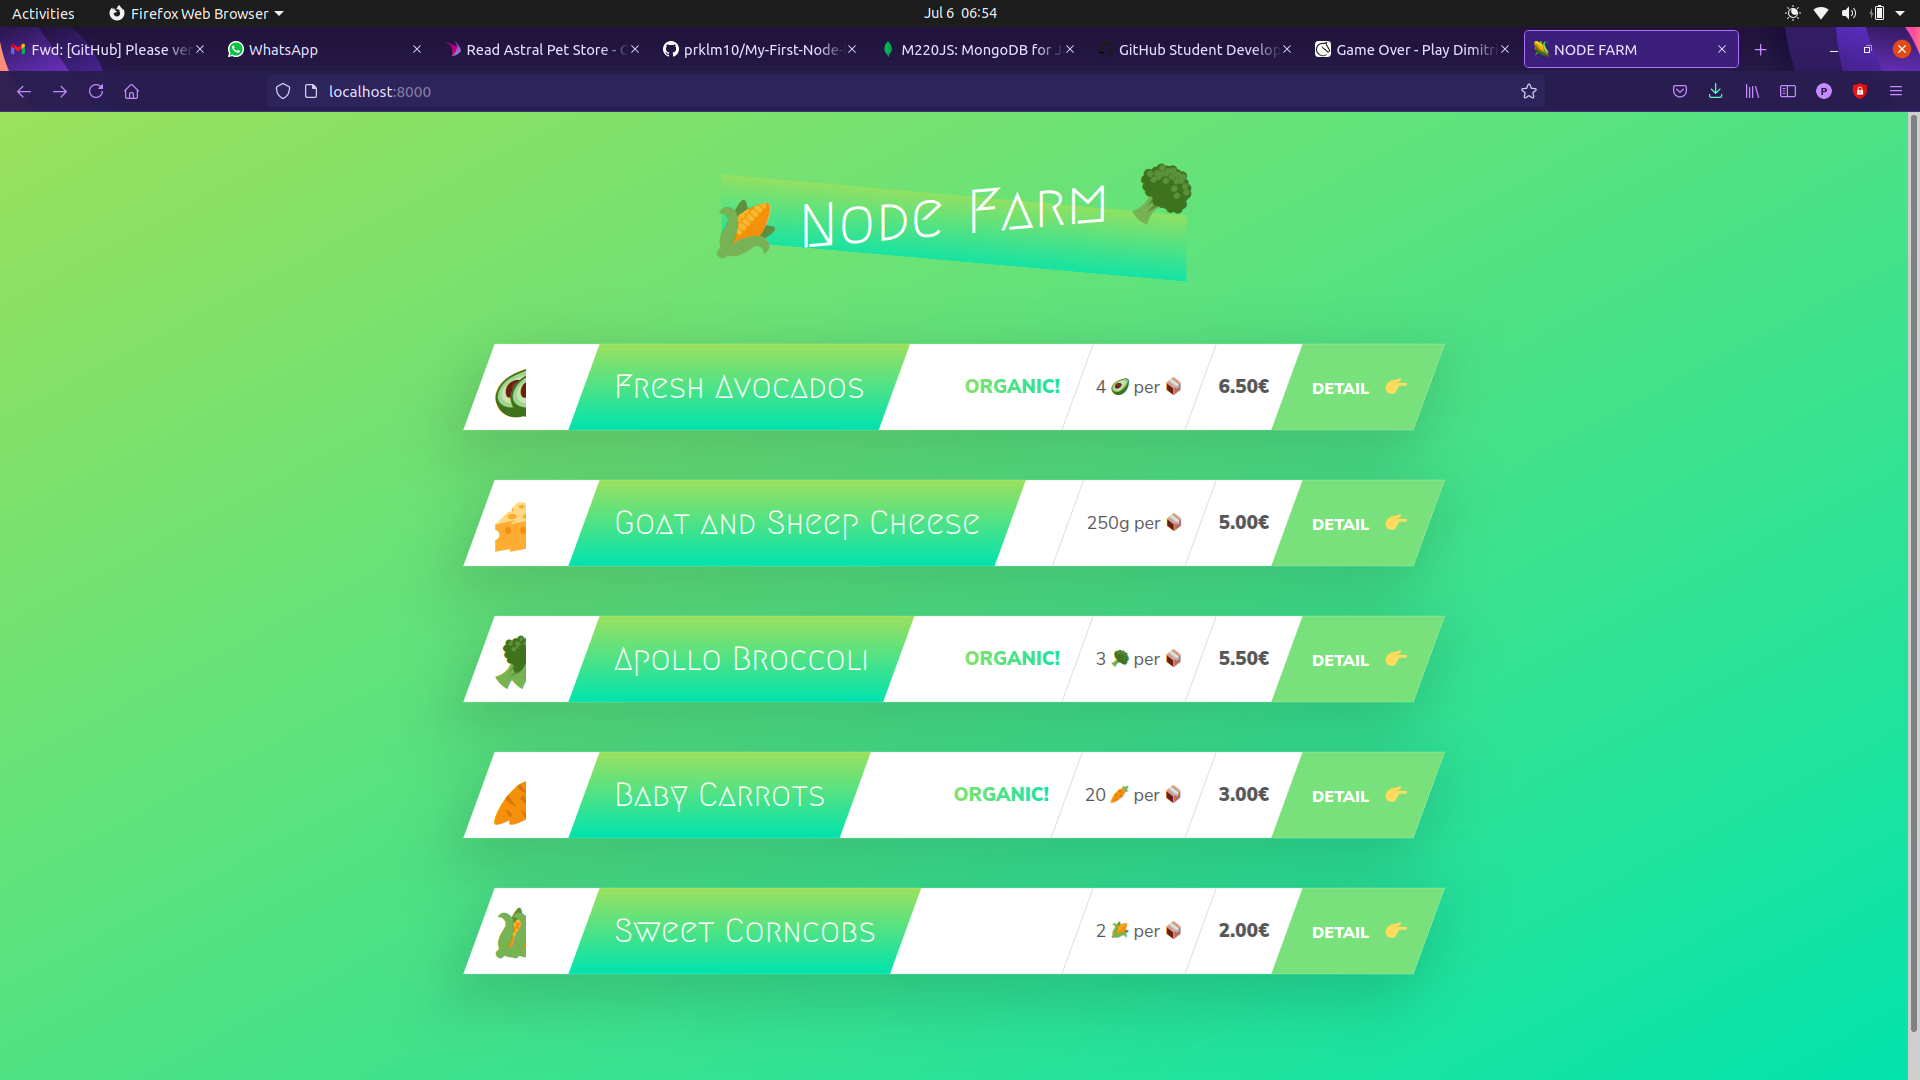
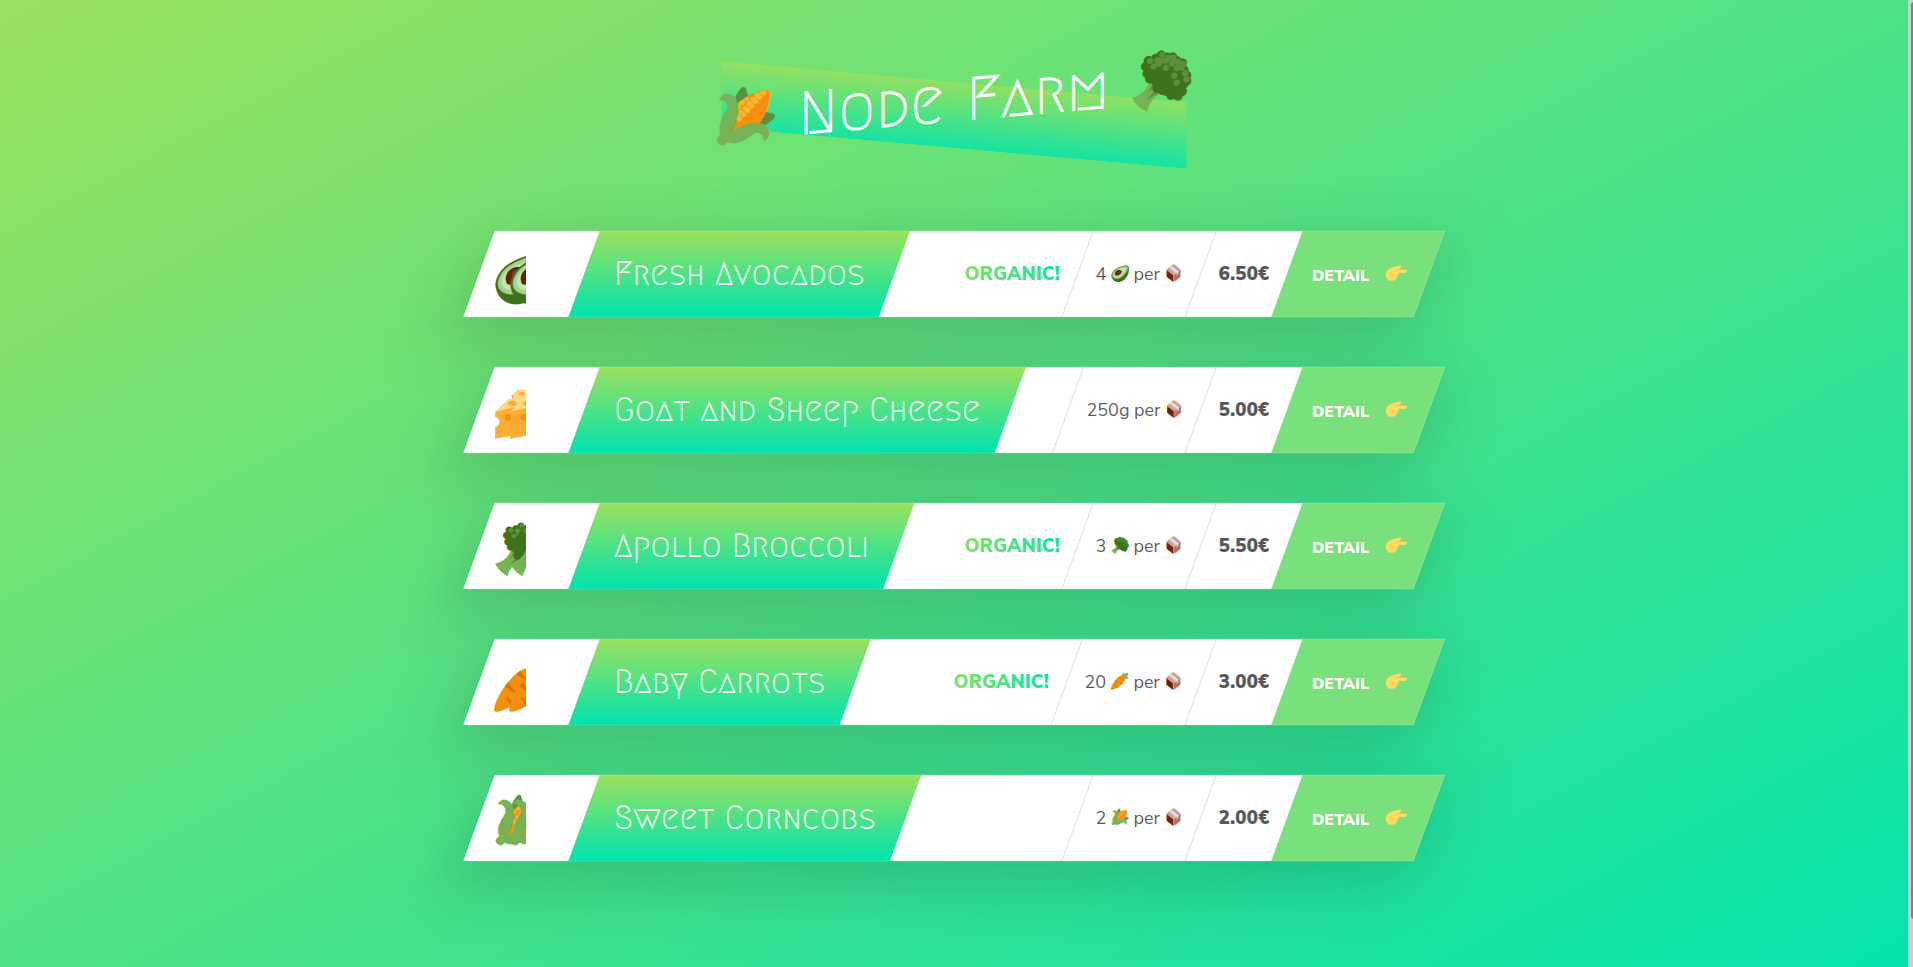
img

diff --git a/README.md b/README.md
@@ -1,6 +1,10 @@
 # Description
+
 ## This is a small website using nodejs, html and css without any npm libraries.
 
 # TO RUN
 
 ## node filename
+
+![plot](./img/home.png)
+![plot](./img/product.png)
